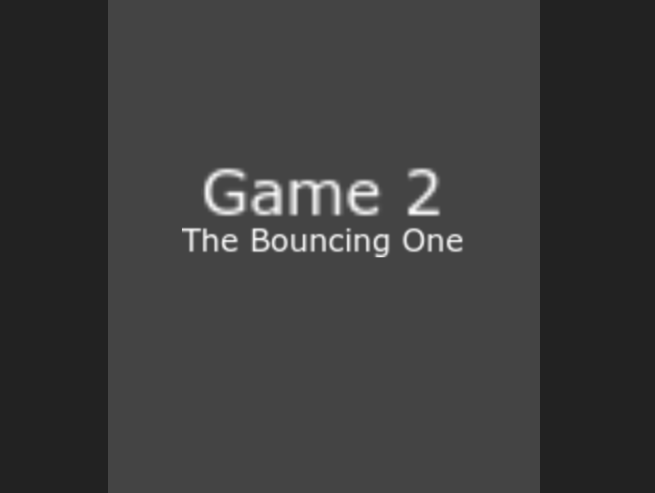
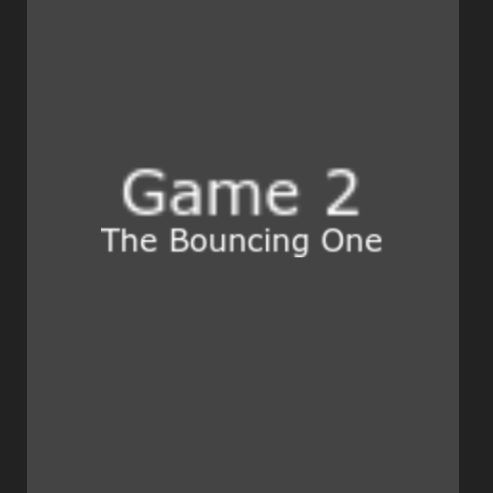
finalized a bunch of stuff

Changed region(s): [[0.0304, 0.0, 0.1826, 1.0], [0.8215, 0.0, 0.9432, 1.0], [0.213, 0.3347, 0.7911, 0.5477]]

diff --git a/projects.html b/projects.html
@@ -15,17 +15,22 @@
       <section>
         <h2><a href="https://www.construct.net/en/free-online-games/head-aqua-10172/play">GET HEAD</a></h2>
         <p>GET HEAD is a game made in 2020, released on the 26th of February 2020. You can play it on the Construct arcade <a href="https://www.construct.net/en/free-online-games/head-aqua-10172/play">here</a>. GET HEAD, as of writing, is receiving updates every other Wednesday.</p>
-        <img src="img/get-head_cover.png">
+        <img class="halfSize" src="img/get-head_cover.png">
+        <img class="halfSize" src="img/get-head_pic1.png">
       </section>
+      
       <section>
         <h2><a href="game-2/index.html">Game 2: The Bouncing One</a></h2>
         <p>I made Game 2 as a practice project and released it for fun. It's really addictive and quite honestly still fun to play. You can find it <a href="https://sirsnowy7.itch.io/game-2">here</a> on itch.io or <a href="game-2/index.html">here</a> on this site.</p>
-        <img src="img/game-2_cover.png">
+        <img class="halfSize" src="img/game-2_cover.png">
+        <img class="halfSize" src="img/game-2_pic1.png">
       </section>
+
       <section>
         <h2><a href="https://sirsnowy7.itch.io/skyshot">Skyshot</a></h2>
         <p>I made Skyshot in early 2018, using Python with the Pygame API. You can find it <a href="https://sirsnowy7.itch.io/skyshot">here</a> on itch.io, but it's hard to play because I never properly packaged it. However, if you're well versed with your command line or have Python and Pygame installed, give it a shot. It's still fun.</p>
-        <img src="img/skyshot_cover.png">
+        <img class="halfSize" src="img/skyshot_cover.png">
+        <img class="halfSize" src="img/skyshot_cover.png">
       </section>
     </main>
     <aside>

diff --git a/style/style.css b/style/style.css
@@ -1,8 +1,5 @@
 @import url('https://fonts.googleapis.com/css?family=Share+Tech+Mono|Ubuntu&display=swap');
 
-html {
-}
-
 body {
   margin: 2%;
   margin-left: 3%;
@@ -12,21 +9,6 @@ body {
   background-color: #F4F4F4;
   font-size: 1.2em;
 }
-
-@media screen and (min-width: 700px) {
-  body {
-    display: grid;
-    grid-template-columns: 61.8% 38.2%; }
-  main, aside {
-    grid-row: auto; }
-  main {
-    grid-column: 1 / 2;
-    margin-right: 1%; }
-  aside {
-    grid-column: 2 / 3;
-    margin-left: 1%; }
-  header {
-    grid-column: 1 / 3; } }
 
 header {
   margin-bottom: 1%; }
@@ -51,7 +33,7 @@ h1, h2, h3 {
   border-bottom: 2px solid #DC4545; }
 
 h1 {
-  font-size: 3.5em; }
+  font-size: 17vw; }
 
 h2 {
   font-size: 2.0em; }
@@ -111,3 +93,30 @@ img {
   width: 100%;
   max-height: 70%;
   margin: 1% auto; }
+
+img.halfSize {
+  width: 48%;
+}
+
+img.halfSize ~ img.halfSize {
+  margin-left: 1%;
+}
+
+@media screen and (min-width: 700px) {
+  body {
+    display: grid;
+    grid-template-columns: 61.8% 38.2%; }
+  main, aside {
+    grid-row: auto; }
+  main {
+    grid-column: 1 / 2;
+    margin-right: 1%; }
+  aside {
+    grid-column: 2 / 3;
+    margin-left: 1%; }
+  header {
+    grid-column: 1 / 3; }
+  h1 {
+    font-size: 8.5vw;
+  }
+}

diff --git a/projects2.html b/projects2.html
@@ -13,8 +13,12 @@
     </header>
     <main>
       <section>
-        <h2></h2>
-        <p></p>
+        <h2>on Construct</h2>
+        <p>You can find a few other games I have made on my Construct profile <a href="https://www.construct.net/en/free-online-games/profile/sirsnowy7-621166">here</a>. This page has some school projects, unfinished projects, and tech demos.</p>
+      </section>
+      <section>
+        <h2>on repl.it</h2>
+        <p>This page has a bunch of old programs I've made, mostly text based with some websites. You can access this page <a href="https://repl.it/@sirsnowy7">here</a>. This page is full of a bunch of miscellaneous programming I've done, with not too much interesting there.</p>
       </section>
     </main>
     <aside>
